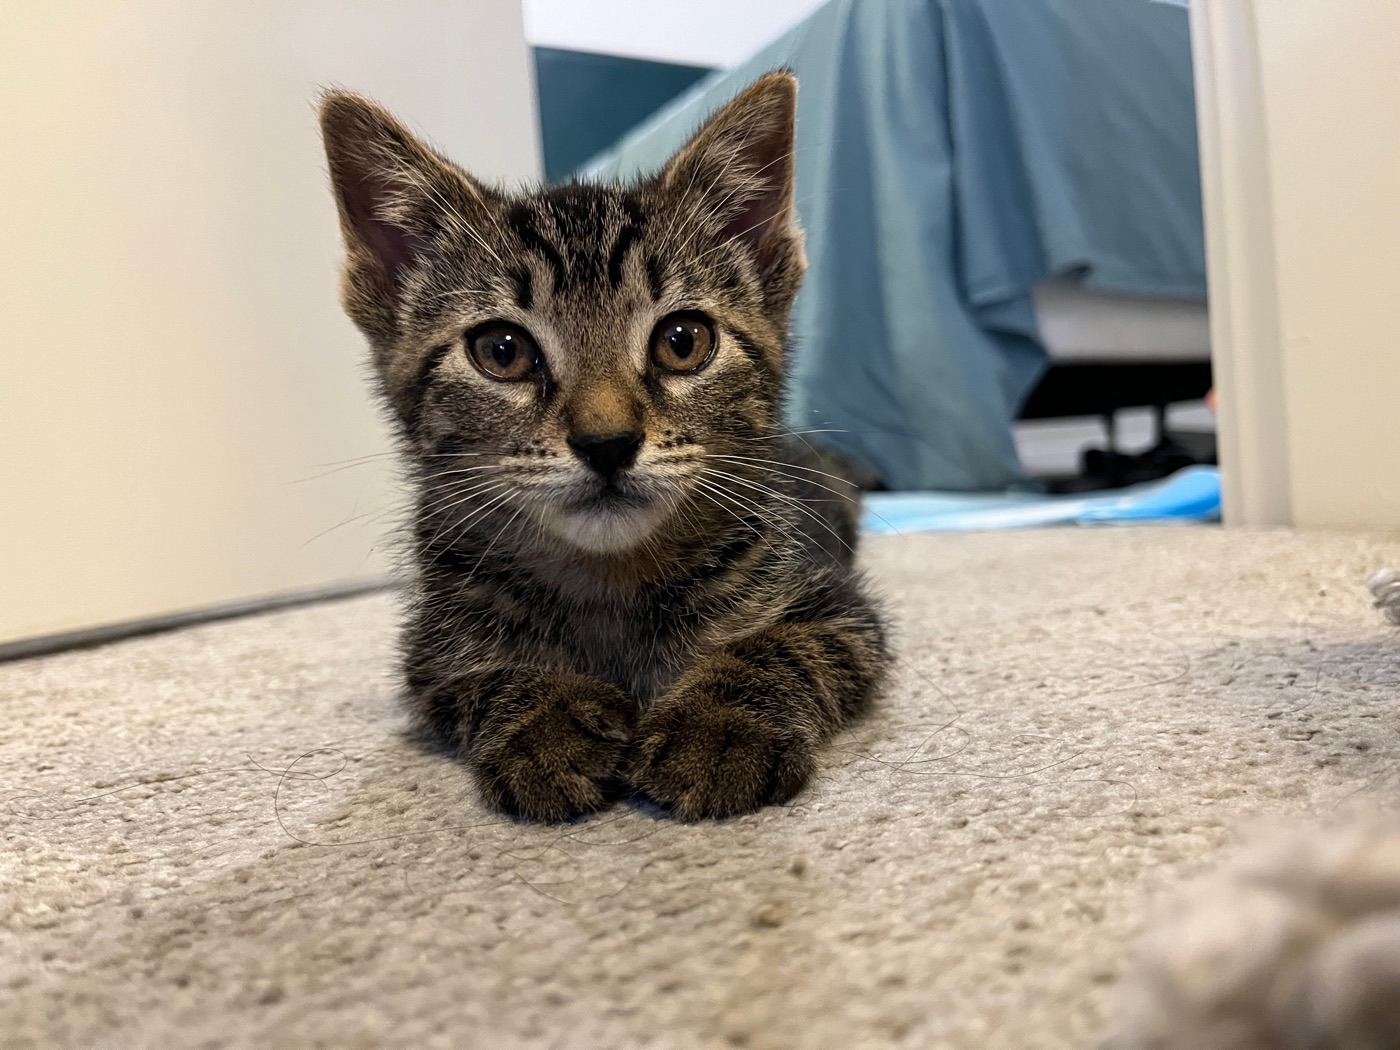
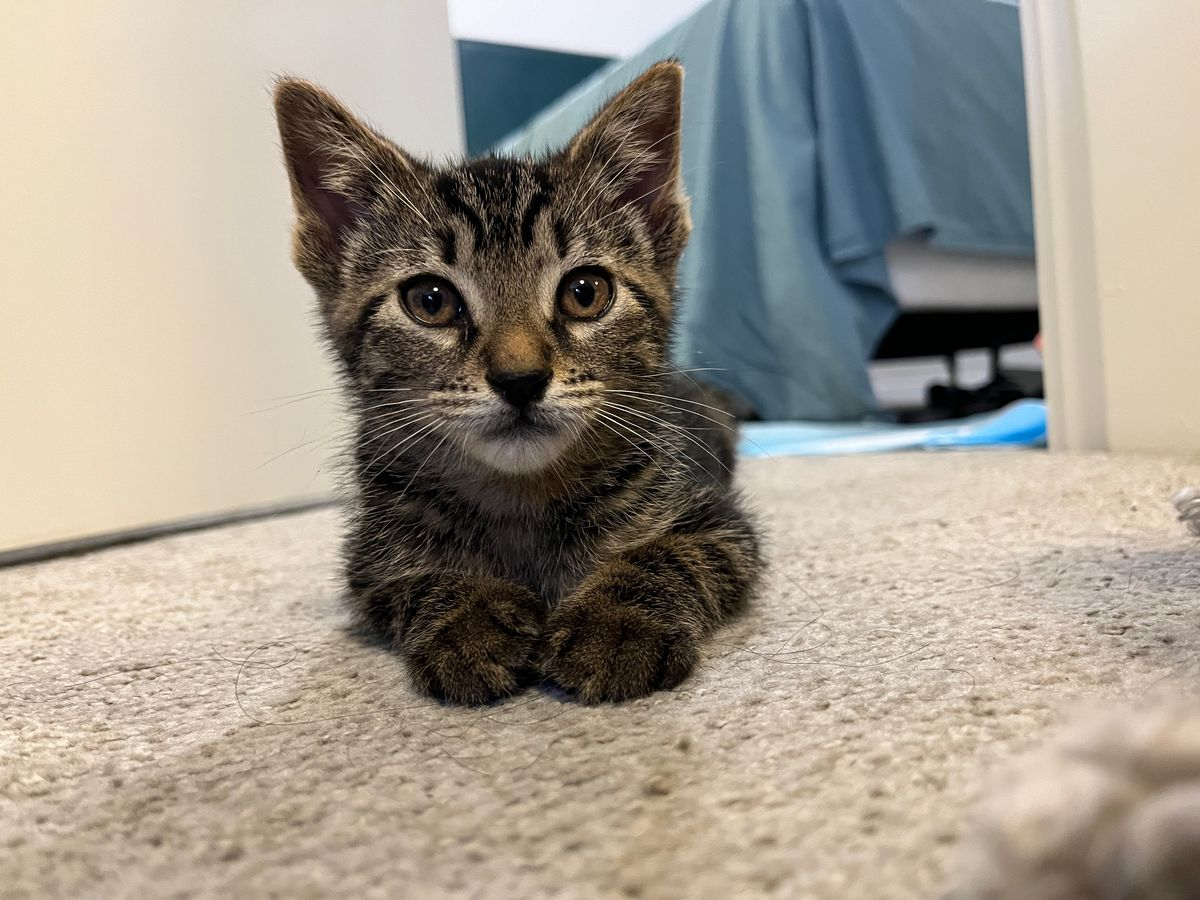
Add 19 more 醪糟儿 photos; pin the sidebar open
Gallery now runs 22 photos, Aug 2024 to Dec 2025, newest first.
The sidebar no longer needs hovering -- it's a plain always-on
list on this page only; the blog keeps its hover behaviour.

Sidebar lists each unique date once (four photos share 20240812),
and images lazy-load with explicit dimensions so the page doesn't
reflow while scrolling.

diff --git a/laozaoer.html b/laozaoer.html
@@ -36,12 +36,27 @@
   </div>
 </header>
 
-<div class="toc-zone">
+<div class="toc-zone toc-static">
   <aside class="toc-panel">
     <a href="#top" class="toc-link toc-pinned">醪糟儿</a>
-    <a href="#p20240811b" class="toc-link">20240811</a>
-    <a href="#p20240811a" class="toc-link">20240811</a>
-    <a href="#p20240807" class="toc-link">20240807</a>
+    <a href="#p20251222-1122" class="toc-link">20251222</a>
+    <a href="#p20250928-1820" class="toc-link">20250928</a>
+    <a href="#p20250905-2312" class="toc-link">20250905</a>
+    <a href="#p20250830-2043" class="toc-link">20250830</a>
+    <a href="#p20250721-2206" class="toc-link">20250721</a>
+    <a href="#p20250704-0815" class="toc-link">20250704</a>
+    <a href="#p20241231-0737" class="toc-link">20241231</a>
+    <a href="#p20241108-1639" class="toc-link">20241108</a>
+    <a href="#p20240925-1953" class="toc-link">20240925</a>
+    <a href="#p20240912-1949" class="toc-link">20240912</a>
+    <a href="#p20240903-2215" class="toc-link">20240903</a>
+    <a href="#p20240818-1920" class="toc-link">20240818</a>
+    <a href="#p20240817-1233" class="toc-link">20240817</a>
+    <a href="#p20240815-0719" class="toc-link">20240815</a>
+    <a href="#p20240813-2253" class="toc-link">20240813</a>
+    <a href="#p20240812-2255" class="toc-link">20240812</a>
+    <a href="#p20240811-2148" class="toc-link">20240811</a>
+    <a href="#p20240807-1942" class="toc-link">20240807</a>
   </aside>
 </div>
 
@@ -53,18 +68,113 @@
       <figcaption>20240607 &mdash;</figcaption>
     </figure>
 
-    <figure class="photo-item" id="p20240811b">
-      <img src="assets/img/laotzur/20240811-2148.jpg" alt="醪糟儿 as a kitten, loafing on the carpet">
+    <figure class="photo-item" id="p20251222-1122">
+      <img src="assets/img/laotzur/20251222-1122.jpg" width="1200" height="1200" loading="lazy" alt="醪糟儿">
+      <figcaption>20251222</figcaption>
+    </figure>
+
+    <figure class="photo-item" id="p20250928-1820">
+      <img src="assets/img/laotzur/20250928-1820.jpg" width="1200" height="900" loading="lazy" alt="醪糟儿">
+      <figcaption>20250928</figcaption>
+    </figure>
+
+    <figure class="photo-item" id="p20250905-2312">
+      <img src="assets/img/laotzur/20250905-2312.jpg" width="1200" height="675" loading="lazy" alt="醪糟儿">
+      <figcaption>20250905</figcaption>
+    </figure>
+
+    <figure class="photo-item" id="p20250830-2043">
+      <img src="assets/img/laotzur/20250830-2043.jpg" width="1183" height="1200" loading="lazy" alt="醪糟儿">
+      <figcaption>20250830</figcaption>
+    </figure>
+
+    <figure class="photo-item" id="p20250721-2206">
+      <img src="assets/img/laotzur/20250721-2206.jpg" width="1200" height="900" loading="lazy" alt="醪糟儿">
+      <figcaption>20250721</figcaption>
+    </figure>
+
+    <figure class="photo-item" id="p20250704-0815">
+      <img src="assets/img/laotzur/20250704-0815.jpg" width="1200" height="1200" loading="lazy" alt="醪糟儿">
+      <figcaption>20250704</figcaption>
+    </figure>
+
+    <figure class="photo-item" id="p20241231-0737">
+      <img src="assets/img/laotzur/20241231-0737.jpg" width="1200" height="675" loading="lazy" alt="醪糟儿">
+      <figcaption>20241231</figcaption>
+    </figure>
+
+    <figure class="photo-item" id="p20241108-1639">
+      <img src="assets/img/laotzur/20241108-1639.jpg" width="900" height="1200" loading="lazy" alt="醪糟儿">
+      <figcaption>20241108</figcaption>
+    </figure>
+
+    <figure class="photo-item" id="p20240925-1953">
+      <img src="assets/img/laotzur/20240925-1953.jpg" width="1200" height="1200" loading="lazy" alt="醪糟儿">
+      <figcaption>20240925</figcaption>
+    </figure>
+
+    <figure class="photo-item" id="p20240912-1949">
+      <img src="assets/img/laotzur/20240912-1949.jpg" width="1200" height="900" loading="lazy" alt="醪糟儿">
+      <figcaption>20240912</figcaption>
+    </figure>
+
+    <figure class="photo-item" id="p20240903-2215">
+      <img src="assets/img/laotzur/20240903-2215.jpg" width="1200" height="900" loading="lazy" alt="醪糟儿">
+      <figcaption>20240903</figcaption>
+    </figure>
+
+    <figure class="photo-item" id="p20240818-1920">
+      <img src="assets/img/laotzur/20240818-1920.jpg" width="1200" height="900" loading="lazy" alt="醪糟儿">
+      <figcaption>20240818</figcaption>
+    </figure>
+
+    <figure class="photo-item" id="p20240817-1233">
+      <img src="assets/img/laotzur/20240817-1233.jpg" width="1200" height="900" loading="lazy" alt="醪糟儿">
+      <figcaption>20240817</figcaption>
+    </figure>
+
+    <figure class="photo-item" id="p20240815-0719">
+      <img src="assets/img/laotzur/20240815-0719.jpg" width="675" height="1200" loading="lazy" alt="醪糟儿">
+      <figcaption>20240815</figcaption>
+    </figure>
+
+    <figure class="photo-item" id="p20240813-2253">
+      <img src="assets/img/laotzur/20240813-2253.jpg" width="1125" height="1125" loading="lazy" alt="醪糟儿">
+      <figcaption>20240813</figcaption>
+    </figure>
+
+    <figure class="photo-item" id="p20240812-2255">
+      <img src="assets/img/laotzur/20240812-2255.jpg" width="900" height="1200" loading="lazy" alt="醪糟儿">
+      <figcaption>20240812</figcaption>
+    </figure>
+
+    <figure class="photo-item" id="p20240812-0106">
+      <img src="assets/img/laotzur/20240812-0106.jpg" width="1200" height="1200" loading="lazy" alt="醪糟儿">
+      <figcaption>20240812</figcaption>
+    </figure>
+
+    <figure class="photo-item" id="p20240812-0102">
+      <img src="assets/img/laotzur/20240812-0102.jpg" width="1200" height="1200" loading="lazy" alt="醪糟儿">
+      <figcaption>20240812</figcaption>
+    </figure>
+
+    <figure class="photo-item" id="p20240812-0026">
+      <img src="assets/img/laotzur/20240812-0026.jpg" width="1200" height="1200" loading="lazy" alt="醪糟儿">
+      <figcaption>20240812</figcaption>
+    </figure>
+
+    <figure class="photo-item" id="p20240811-2148">
+      <img src="assets/img/laotzur/20240811-2148.jpg" width="1200" height="900" loading="lazy" alt="醪糟儿">
       <figcaption>20240811</figcaption>
     </figure>
 
-    <figure class="photo-item" id="p20240811a">
-      <img src="assets/img/laotzur/20240811-1926.jpg" alt="醪糟儿 held in one arm, reflected in a car window">
+    <figure class="photo-item" id="p20240811-1926">
+      <img src="assets/img/laotzur/20240811-1926.jpg" width="1200" height="1200" loading="lazy" alt="醪糟儿">
       <figcaption>20240811</figcaption>
     </figure>
 
-    <figure class="photo-item" id="p20240807">
-      <img src="assets/img/laotzur/20240807.jpg" alt="A litter of tabby kittens beside their mother">
+    <figure class="photo-item" id="p20240807-1942">
+      <img src="assets/img/laotzur/20240807-1942.jpg" width="1200" height="900" loading="lazy" alt="醪糟儿">
       <figcaption>20240807</figcaption>
     </figure>
 

diff --git a/assets/css/style.css b/assets/css/style.css
@@ -438,8 +438,33 @@ footer {
 .toc-pinned { font-weight: 600; color: var(--ink); }
 .toc-trip { font-style: italic; }
 
+/* Always-visible variant (no hover needed) */
+.toc-zone.toc-static {
+  width: 200px;
+  pointer-events: none;
+}
+.toc-zone.toc-static .toc-panel {
+  right: 28px;
+  width: 140px;
+  padding: 0;
+  background: transparent;
+  border: none;
+  border-radius: 0;
+  box-shadow: none;
+  opacity: 1;
+  visibility: visible;
+  transform: none;
+  transition: none;
+  pointer-events: auto;
+}
+.toc-zone.toc-static .toc-pinned { margin-bottom: 6px; }
+
 @media (max-width: 900px) {
   .toc-zone { display: none; }
+}
+/* the static sidebar needs more room beside the 720px content column */
+@media (max-width: 1080px) {
+  .toc-zone.toc-static { display: none; }
 }
 
 /* Responsive */
